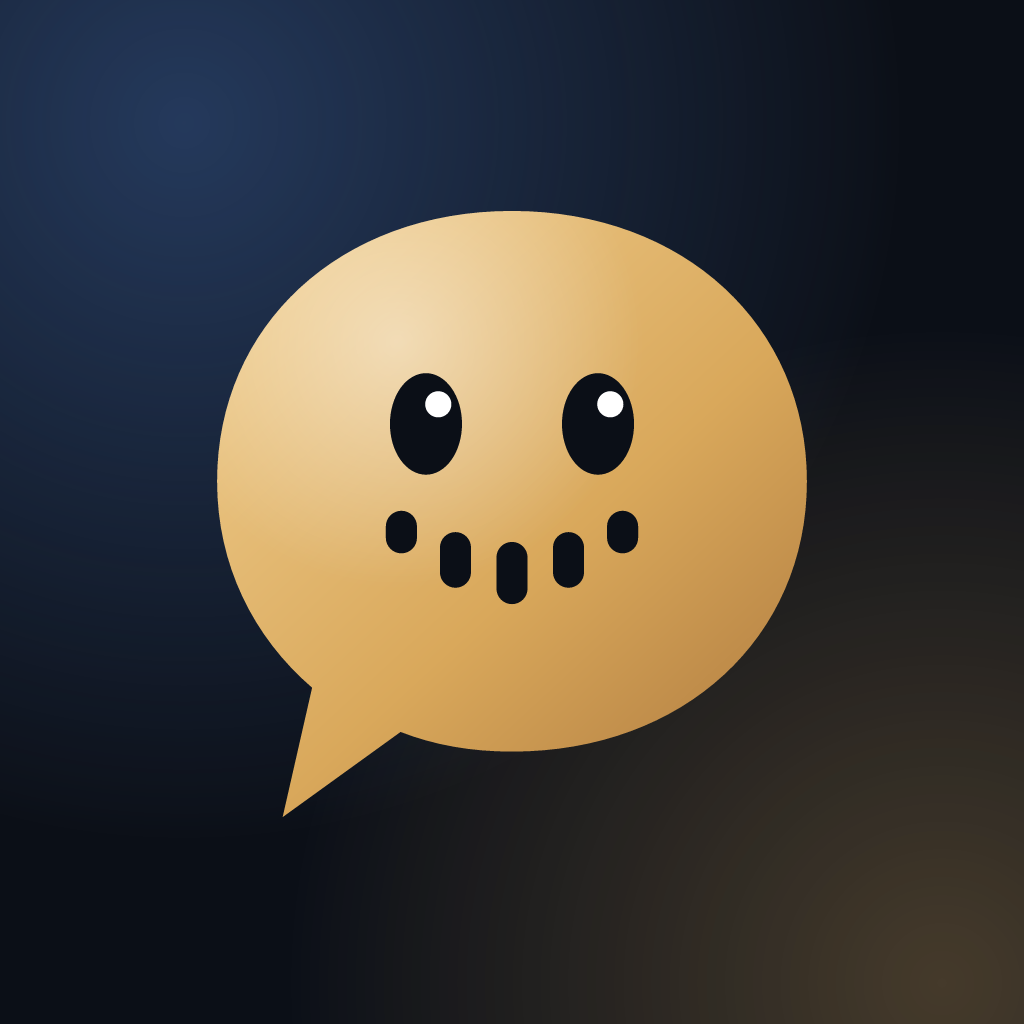
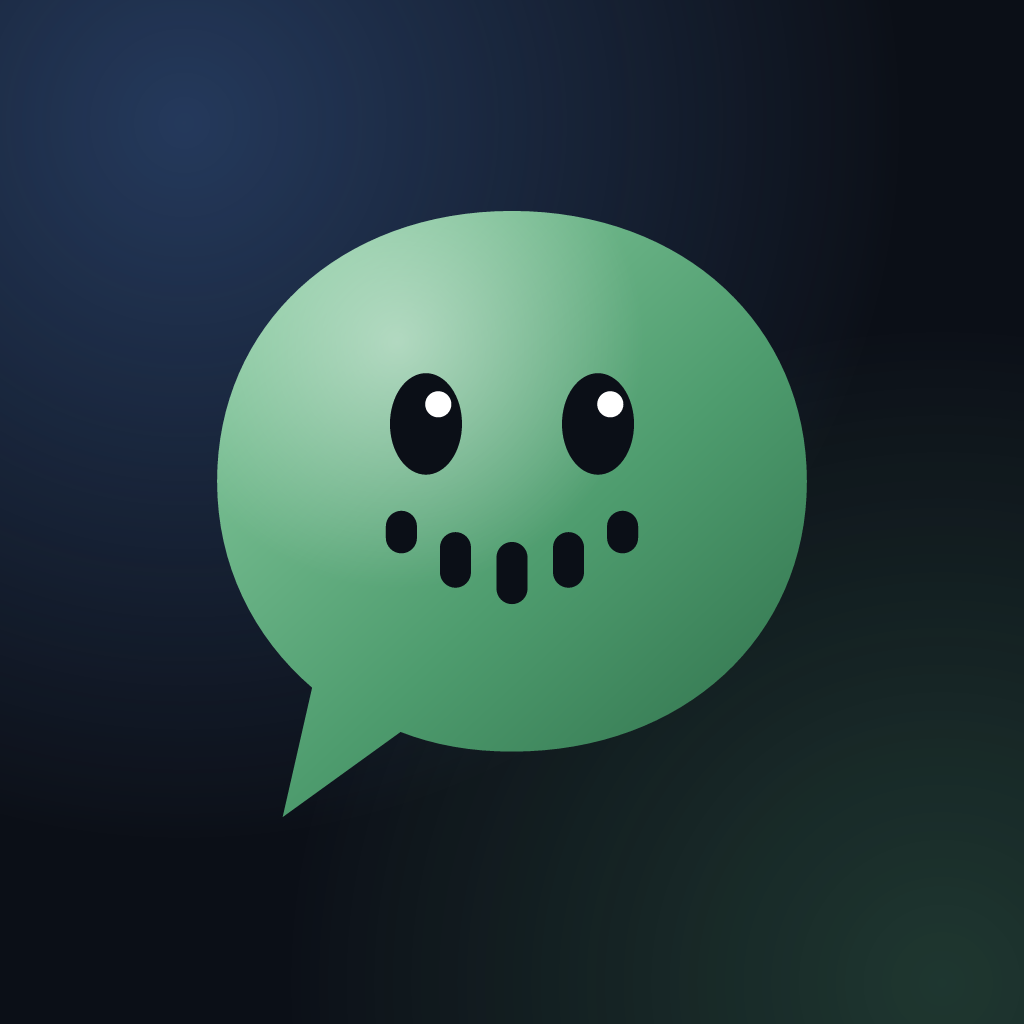
Switch the primary accent from brass to forest green
Brass didn't land, so the colour on everything you press is now forest green:
buttons, the active tab, the voice orb, the logo, the app icon and the green
lamp in the sky behind the screens. Navy ground, ivory type and gold for XP
and badges stay. Labels on the green buttons go back to ivory since it reads
well on a dark fill; the lighter gold and mint buttons keep dark text.

diff --git a/loquor/theme.ts b/loquor/theme.ts
@@ -1,19 +1,19 @@
-// Speek design tokens — Midnight & Brass.
+// Speek design tokens — Midnight & Forest.
 //
-// A stage at night, or an old radio studio: a deep navy room, warm brass on the
-// things you press, ivory type. The aurora still drifts behind everything, but
-// in lamp colours now — brass, sage, a little terracotta — so the screen glows
-// like a lit dial rather than a light show. Data keeps its own ramp (HEAT) so a
-// filler rate never borrows the colour that means "tap me".
+// A stage at night: a deep navy room, forest green on the things you press,
+// ivory type and gold for anything you earn. The aurora still drifts behind
+// everything, but in quiet colours — a green lamp, a little sage and
+// terracotta — so the screen glows rather than flashes. Data keeps its own
+// ramp (HEAT) so a filler rate never borrows the colour that means "tap me".
 //
 // The export names are the old ones on purpose. Every screen reads CHROME,
 // SURFACE and TYPE, so remapping the values here re-skins the whole app at once.
 
 export const AURORA = {
-  brass: "#D9A85B",      // primary: buttons, the active tab, the one thing to press
+  forest: "#4E9C6E",     // primary: buttons, the active tab, the one thing to press
   sage: "#6FB7A4",       // good, cleared, owned
   terracotta: "#E07A5F", // alert: fillers, hedges, over the line
-  gold: "#EFC984",       // XP — a lighter brass, so a reward reads as a reward
+  gold: "#EFC984",       // XP and badges — warm against the green, so a reward reads as a reward
   plum: "#A0708F",       // a quiet counterweight in gradients and the sky
   steel: "#7FA3C2",      // cool accents: freezes, info
 } as const;
@@ -26,7 +26,7 @@ export const CHROME = {
   chalk: "#F2EEE6",     // primary text, ivory
   dust: "#ABA69A",      // secondary text
   dustDim: "#726E66",   // labels
-  ink: "#141008",       // text on a brass fill
+  ink: "#141008",       // text on a light fill (gold, terracotta, mint)
 } as const;
 
 // Vocal energy, silence → peak: a cold dial warming to a hot lamp.
@@ -40,7 +40,7 @@ export const HEAT = [
 ] as const;
 
 export const SEMANTIC = {
-  ember: AURORA.brass,      // live, recording, the active choice
+  ember: AURORA.forest,     // live, recording, the active choice
   flaw: AURORA.terracotta,  // filler markers, hedges, over-threshold
   solid: AURORA.sage,       // owned, mastered, cleared
   xp: AURORA.gold,
@@ -48,13 +48,13 @@ export const SEMANTIC = {
 
 /** Gradient stops, as tuples so they drop straight into LinearGradient. */
 export const GRADIENT = {
-  primary: ["#E8BE74", "#C08A45"] as const,
+  primary: ["#46966A", "#25603F"] as const,
   cool: [AURORA.steel, AURORA.sage] as const,
-  warm: [AURORA.terracotta, AURORA.brass] as const,
+  warm: [AURORA.terracotta, AURORA.gold] as const,
   flame: ["#D9583A", "#E8964A", AURORA.gold] as const,
-  xp: [AURORA.gold, AURORA.brass] as const,
+  xp: [AURORA.gold, "#C9963F"] as const,
   good: ["#86C7B5", "#4F9886"] as const,
-  brand: [AURORA.brass, AURORA.sage, AURORA.terracotta] as const,
+  brand: [AURORA.forest, AURORA.gold, AURORA.terracotta] as const,
 };
 
 // Interpolate the heat ramp. `t` clamps to 0..1.

diff --git a/loquor/components/kit/Aurora.tsx b/loquor/components/kit/Aurora.tsx
@@ -6,7 +6,7 @@
 // behind each other is a battery bill nobody sees the benefit of.
 //
 // Four soft pools of light drifting on a navy ground: a cold stage-blue wash,
-// a brass lamp, and faint sage and terracotta underneath. Slow on purpose: it
+// a forest-green lamp, and faint sage and terracotta underneath. Slow on purpose: it
 // should feel like the screen is breathing, not like it is busy.
 //
 // Rendered at a quarter of the screen's size and scaled up. The blobs are pure
@@ -40,12 +40,12 @@ half4 main(float2 xy) {
   float s = t * 0.00011;
   float3 col = float3(0.043, 0.059, 0.090);
   float3 stage = float3(0.180, 0.290, 0.470);
-  float3 brass = float3(0.851, 0.659, 0.357);
+  float3 forest = float3(0.306, 0.612, 0.431);
   float3 sage = float3(0.435, 0.718, 0.643);
   float3 terracotta = float3(0.878, 0.478, 0.373);
   float e = 1.0 + energy;
   col += stage * 0.34 * e * blob(p, float2(0.12 + 0.16 * sin(s * 1.3), 0.06 * h + 0.07 * cos(s * 1.1)), 0.62);
-  col += brass * 0.15 * e * blob(p, float2(1.0 + 0.10 * cos(s * 0.9), 0.30 * h + 0.10 * sin(s * 1.4)), 0.50);
+  col += forest * 0.16 * e * blob(p, float2(1.0 + 0.10 * cos(s * 0.9), 0.30 * h + 0.10 * sin(s * 1.4)), 0.50);
   col += sage * 0.07 * e * blob(p, float2(0.18 + 0.18 * sin(s * 0.7 + 2.0), 0.80 * h + 0.08 * cos(s * 1.2)), 0.55);
   col += terracotta * 0.07 * e * blob(p, float2(0.90 + 0.10 * sin(s), 1.02 * h), 0.45);
   return half4(half3(col), 1.0);
@@ -106,7 +106,7 @@ function StaticAurora() {
         style={StyleSheet.absoluteFill}
       />
       <LinearGradient
-        colors={["transparent", alpha(AURORA.brass, 0.12)]}
+        colors={["transparent", alpha(AURORA.forest, 0.12)]}
         start={{ x: 0.6, y: 0.4 }}
         end={{ x: 0.1, y: 1 }}
         style={StyleSheet.absoluteFill}

diff --git a/loquor/features/play/PlayScreen.tsx b/loquor/features/play/PlayScreen.tsx
@@ -46,7 +46,7 @@ const GAMES: Game[] = [
     name: "Bring It to Life",
     icon: "bot",
     hook: "Start as a robot. Your melody, punch and rhythm turn it back into you.",
-    tint: [AURORA.plum, AURORA.brass],
+    tint: [AURORA.plum, AURORA.forest],
     tag: "VOICE",
   },
   {
@@ -78,7 +78,7 @@ const GAMES: Game[] = [
     name: "Lexicon Blitz",
     icon: "zap",
     hook: "Sixty seconds, a definition, four words. Combos stack, and it counts as review.",
-    tint: [AURORA.brass, AURORA.sage],
+    tint: [AURORA.forest, AURORA.sage],
     tag: "TAP",
   },
 ];
@@ -266,7 +266,7 @@ export default function Play() {
           <PressableScale onPress={d.go} scaleTo={0.97} accessibilityLabel={d.name}>
             <Glass style={s.drill} radius={RADIUS.soft + 6}>
               <View style={s.drillIcon}>
-                <Glyph name={d.icon} size={22} strokeWidth={1.7} color={AURORA.brass} />
+                <Glyph name={d.icon} size={22} strokeWidth={1.7} color={AURORA.forest} />
               </View>
               <View style={{ flex: 1, gap: 3 }}>
                 <View style={s.gameHead}>
@@ -325,7 +325,7 @@ const s = StyleSheet.create({
     borderRadius: 13,
     alignItems: "center",
     justifyContent: "center",
-    backgroundColor: alpha(AURORA.brass, 0.1),
+    backgroundColor: alpha(AURORA.forest, 0.1),
   },
   drillName: { color: CHROME.chalk, fontSize: 17, fontFamily: TYPE.displaySoft },
   drillTrains: { color: CHROME.dust, fontSize: 13, lineHeight: 19, fontFamily: TYPE.ui },

diff --git a/loquor/features/today/TodayScreen.tsx b/loquor/features/today/TodayScreen.tsx
@@ -231,7 +231,7 @@ export default function Home() {
           {/* The hero. Re-keyed on the action id so it re-enters when the ladder
               moves on, which is the feedback that completing something counted. */}
           <Rise key={action?.id ?? "none"} index={2}>
-            <Glass glow={action?.urgent ? AURORA.terracotta : AURORA.brass} style={s.hero}>
+            <Glass glow={action?.urgent ? AURORA.terracotta : AURORA.forest} style={s.hero}>
               <Text style={[s.kicker, action?.urgent && { color: AURORA.terracotta }]}>
                 {action?.eyebrow ?? " "}
               </Text>
@@ -427,7 +427,7 @@ const s = StyleSheet.create({
   levelMeta: { color: CHROME.dust, fontSize: 12.5, fontFamily: TYPE.uiMedium },
 
   hero: { gap: 10 },
-  kicker: { color: AURORA.brass, fontSize: 11.5, letterSpacing: 1.8, fontFamily: TYPE.uiBold },
+  kicker: { color: AURORA.forest, fontSize: 11.5, letterSpacing: 1.8, fontFamily: TYPE.uiBold },
   heroTitle: { color: CHROME.chalk, fontSize: 28, lineHeight: 34, fontFamily: TYPE.display, letterSpacing: -0.5 },
   heroPrompt: {
     color: CHROME.chalk,
@@ -464,7 +464,7 @@ const s = StyleSheet.create({
     alignItems: "center",
     justifyContent: "center",
     borderWidth: 1.5,
-    borderColor: alpha(AURORA.brass, 0.7),
+    borderColor: alpha(AURORA.forest, 0.7),
   },
   questTickDone: { backgroundColor: AURORA.sage, borderColor: AURORA.sage },
   questTickMark: { color: CHROME.chalk, fontSize: 14, fontFamily: TYPE.uiBold },

diff --git a/loquor/components/kit/GlowButton.tsx b/loquor/components/kit/GlowButton.tsx
@@ -99,13 +99,13 @@ export function GlowButton({
           >
             <Animated.View pointerEvents="none" style={[s.sheen, sheen]}>
               <LinearGradient
-                colors={["rgba(255,255,255,0)", "rgba(255,248,230,0.45)", "rgba(255,255,255,0)"]}
+                colors={["rgba(255,255,255,0)", "rgba(240,255,245,0.3)", "rgba(255,255,255,0)"]}
                 start={{ x: 0, y: 0 }}
                 end={{ x: 1, y: 0 }}
                 style={StyleSheet.absoluteFill}
               />
             </Animated.View>
-            <Text style={[s.label, s.labelOnFill, compact && s.labelCompact]}>
+            <Text style={[s.label, tone !== "primary" && s.labelOnLight, compact && s.labelCompact]}>
               {icon ? `${icon}  ` : ""}
               {label}
             </Text>
@@ -145,7 +145,7 @@ const s = StyleSheet.create({
     borderColor: SURFACE.edgeLive,
   },
   label: { fontFamily: TYPE.uiBold, fontSize: 17, color: CHROME.chalk, letterSpacing: 0.2 },
-  labelOnFill: { color: CHROME.ink },
+  labelOnLight: { color: CHROME.ink },
   labelCompact: { fontSize: 15 },
   quietLabel: { color: CHROME.dust, fontFamily: TYPE.uiSemi },
 });

diff --git a/loquor/components/kit/icons.tsx b/loquor/components/kit/icons.tsx
@@ -1,5 +1,5 @@
 // Tab icons. Drawn rather than borrowed from an icon font, so the stroke weight
-// matches Outfit and the active state can fill with a brass wash.
+// matches Outfit and the active state can fill with a green wash.
 
 import Svg, { Circle, Defs, LinearGradient, Path, Rect, Stop } from "react-native-svg";
 
@@ -60,13 +60,13 @@ export function TabIcon({ name, active, size = 26 }: { name: IconName; active: b
     <Svg width={size} height={size} viewBox="0 0 24 24">
       <Defs>
         <LinearGradient id={`tab-${name}`} x1="0" y1="0" x2="1" y2="1">
-          <Stop offset="0" stopColor={AURORA.brass} stopOpacity={0.45} />
-          <Stop offset="1" stopColor={AURORA.gold} stopOpacity={0.2} />
+          <Stop offset="0" stopColor={AURORA.forest} stopOpacity={0.45} />
+          <Stop offset="1" stopColor={AURORA.sage} stopOpacity={0.2} />
         </LinearGradient>
       </Defs>
       <Shape
         name={name}
-        stroke={active ? AURORA.gold : alpha(CHROME.chalk, 0.5)}
+        stroke={active ? CHROME.chalk : alpha(CHROME.chalk, 0.5)}
         fill={active ? `url(#tab-${name})` : "none"}
       />
     </Svg>

diff --git a/loquor/components/kit/VoiceOrb.tsx b/loquor/components/kit/VoiceOrb.tsx
@@ -191,13 +191,13 @@ export function VoiceOrb({
     <Animated.View
       style={[{ width: size, height: size }, body, style]}
     >
-      {glow ? <Halo color="#D9A85B" opacity={0.4} spread={size * 0.22} style={{ top: -size * 0.16, bottom: -size * 0.28 }} /> : null}
+      {glow ? <Halo color="#4E9C6E" opacity={0.4} spread={size * 0.22} style={{ top: -size * 0.16, bottom: -size * 0.28 }} /> : null}
       <Svg width={size} height={size} viewBox="0 0 100 100" style={StyleSheet.absoluteFill}>
         <Defs>
           <LinearGradient id="orbFill" x1="14" y1="12" x2="86" y2="90" gradientUnits="userSpaceOnUse">
-            <Stop offset="0" stopColor="#F2D193" />
-            <Stop offset="0.55" stopColor="#D9A85B" />
-            <Stop offset="1" stopColor="#A8733A" />
+            <Stop offset="0" stopColor="#8FD1A6" />
+            <Stop offset="0.55" stopColor="#4E9C6E" />
+            <Stop offset="1" stopColor="#2A6845" />
           </LinearGradient>
           <RadialGradient id="orbGloss" cx="36" cy="28" r="30" gradientUnits="userSpaceOnUse">
             <Stop offset="0" stopColor="#FFFFFF" stopOpacity={0.45} />

diff --git a/loquor/features/you/YouScreen.tsx b/loquor/features/you/YouScreen.tsx
@@ -59,7 +59,7 @@ function Header() {
       />
 
       <Rise index={0}>
-        <Glass glow={AURORA.brass} style={s.hero}>
+        <Glass glow={AURORA.forest} style={s.hero}>
           <ProgressRing progress={p?.level.progress ?? 0} size={128} stroke={10} colors={GRADIENT.xp}>
             <Text style={s.lvlLabel}>LEVEL</Text>
             <Text style={s.lvl}>{p?.level.level ?? 1}</Text>
@@ -215,7 +215,7 @@ const s = StyleSheet.create({
   },
   badgeOn: { backgroundColor: alpha(AURORA.gold, 0.12), borderColor: alpha(AURORA.gold, 0.45) },
   badgeOff: { backgroundColor: SURFACE.sunk, borderColor: SURFACE.edge },
-  badgePicked: { borderColor: AURORA.brass, borderWidth: 1.5 },
+  badgePicked: { borderColor: AURORA.forest, borderWidth: 1.5 },
   badgeName: { color: CHROME.chalk, fontSize: 10.5, lineHeight: 13, fontFamily: TYPE.uiSemi, textAlign: "center" },
 
   detail: { gap: 4 },

diff --git a/loquor/app/(tabs)/_layout.tsx b/loquor/app/(tabs)/_layout.tsx
@@ -162,12 +162,12 @@ const s = StyleSheet.create({
     height: BAR_H,
     borderRadius: RADIUS.bar,
     borderWidth: 1,
-    borderColor: alpha(AURORA.brass, 0.22),
+    borderColor: alpha(AURORA.forest, 0.22),
     overflow: "hidden",
   },
   blobCell: { position: "absolute", top: 0, bottom: 0, left: 0, padding: INSET },
   blob: { flex: 1, borderRadius: RADIUS.bar - INSET },
   item: { flex: 1, alignItems: "center", justifyContent: "center", gap: 3 },
   label: { color: alpha(CHROME.chalk, 0.5), fontSize: 11, fontFamily: TYPE.uiSemi },
-  labelOn: { color: AURORA.brass },
+  labelOn: { color: AURORA.forest },
 });

diff --git a/loquor/features/progress/ProgressScreen.tsx b/loquor/features/progress/ProgressScreen.tsx
@@ -412,9 +412,9 @@ const s = StyleSheet.create({
   weekLabel: { color: CHROME.dustDim, fontSize: 10, letterSpacing: 1.6, fontFamily: TYPE.mono, ...TABULAR },
 
   callout: {
-    backgroundColor: "rgba(217, 168, 91, 0.07)",
+    backgroundColor: "rgba(78, 156, 110, 0.07)",
     borderWidth: 1,
-    borderColor: "rgba(217, 168, 91, 0.4)",
+    borderColor: "rgba(78, 156, 110, 0.4)",
     borderRadius: RADIUS.panel,
     paddingHorizontal: 16,
     paddingVertical: 15,

diff --git a/loquor/features/reading/ReadScreen.tsx b/loquor/features/reading/ReadScreen.tsx
@@ -505,7 +505,7 @@ const s = StyleSheet.create({
     paddingVertical: 7,
     gap: 1,
   },
-  chipOpen: { borderColor: SEMANTIC.ember, backgroundColor: "rgba(217, 168, 91, 0.1)" },
+  chipOpen: { borderColor: SEMANTIC.ember, backgroundColor: "rgba(78, 156, 110, 0.1)" },
   chipWord: { color: CHROME.chalk, fontSize: 14, fontFamily: TYPE.displayItalic },
   chipSay: { color: CHROME.dustDim, fontSize: 10, fontFamily: TYPE.ui, letterSpacing: 0.4 },
 

diff --git a/loquor/components/boot.tsx b/loquor/components/boot.tsx
@@ -115,7 +115,7 @@ export function Boot({ exiting = false }: { exiting?: boolean }) {
   return (
     <Animated.View style={[s.root, fade]}>
       <LinearGradient
-        colors={[alpha(AURORA.brass, 0.35), "rgba(0,0,0,0)", alpha(AURORA.sage, 0.14)]}
+        colors={[alpha(AURORA.forest, 0.35), "rgba(0,0,0,0)", alpha(AURORA.sage, 0.14)]}
         start={{ x: 0, y: 0 }}
         end={{ x: 1, y: 1 }}
         style={StyleSheet.absoluteFill}
